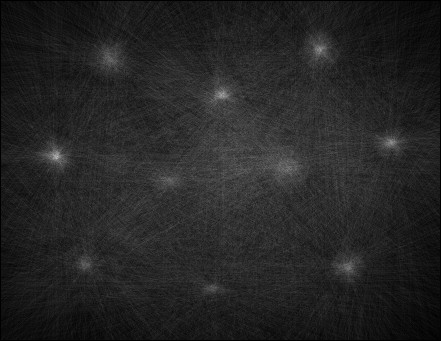
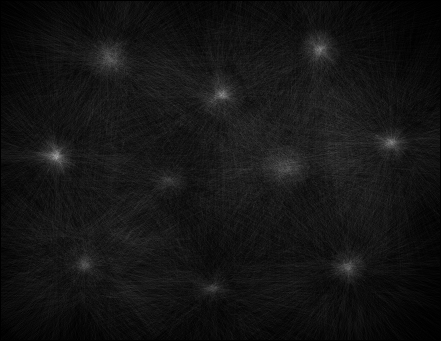
adapted parameters

Changed region(s): [[0.1474, 0.1466, 0.8254, 0.8798], [0.678, 0.176, 0.7075, 0.2053], [0.1179, 0.5865, 0.1474, 0.6158]]

diff --git a/Ass4/task2.cpp b/Ass4/task2.cpp
@@ -12,9 +12,9 @@ int main( int argc, char** argv ) {
   
   /// Parameters
   const int R_MIN = 20;
-  const int R_MAX = 200;
+  const int R_MAX = 100;
   const int INITIAL_THRESHOLD = 20;
-  const int VOTER_THRESHOLD = 75;
+  const int VOTER_THRESHOLD = 50;
   const int DISTANCE_BETWEEN_CENTERS = 60;
   
   
